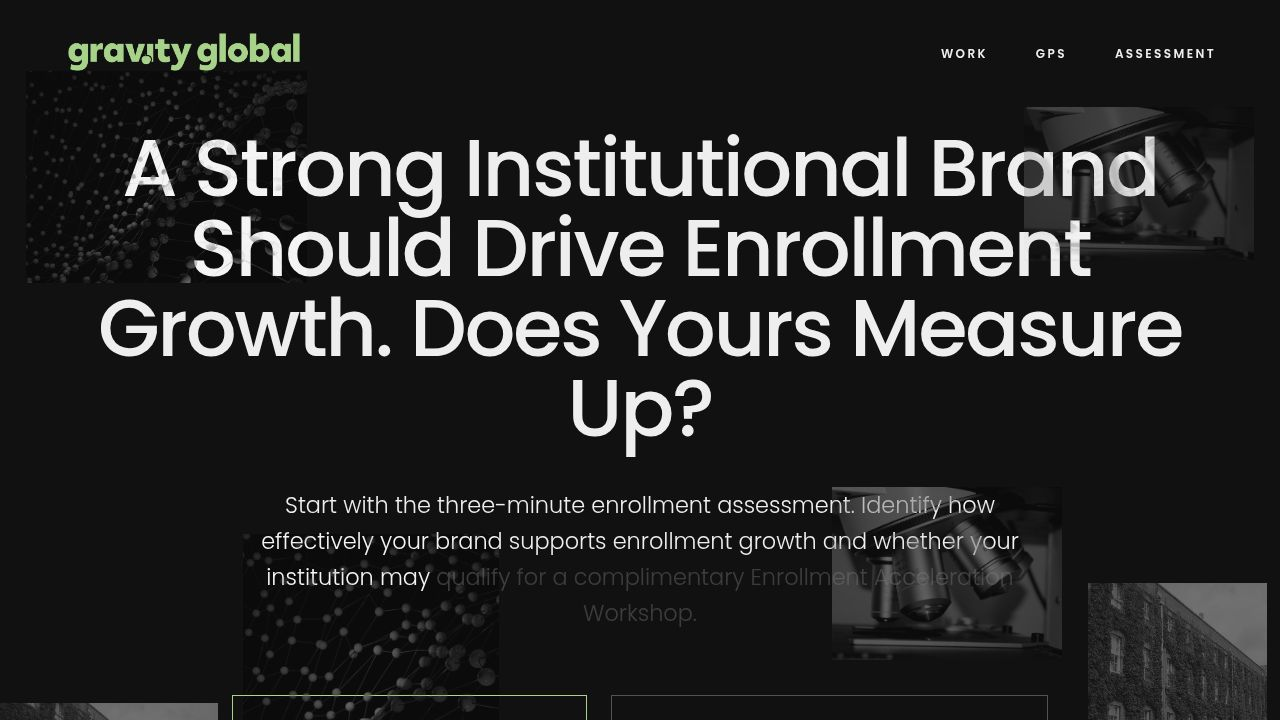
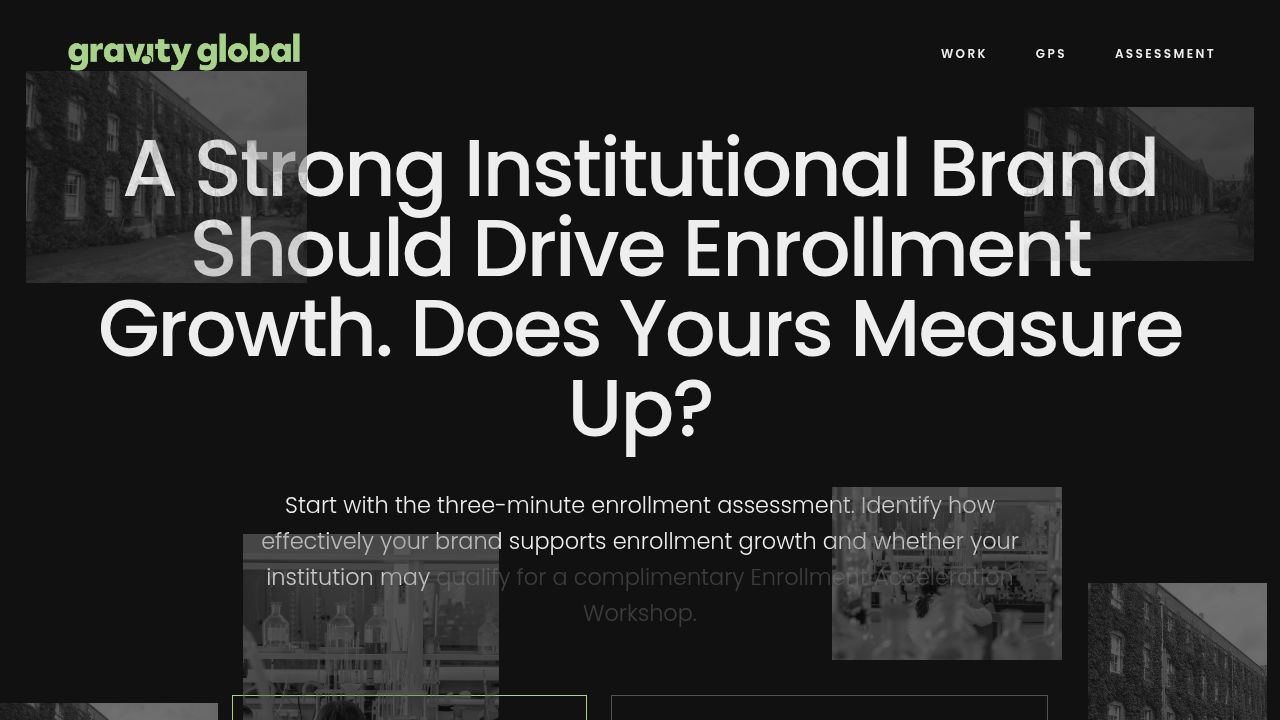
Update website to display correct forms and content
Adjusted image assets and text content for various sections, including the HubSpot form trigger, case study details, and logo order.

Replit-Commit-Author: Agent
Replit-Commit-Session-Id: d6e0730f-b30e-491c-b3e2-d3f84d242913
Replit-Commit-Checkpoint-Type: full_checkpoint
Replit-Commit-Event-Id: bde6509c-2a98-43e3-9b98-296a34e604e8
Replit-Commit-Screenshot-Url: https://storage.googleapis.com/screenshot-production-us-central1/9cd8e13a-6fcb-4403-b32e-22f1f94d53f9/d6e0730f-b30e-491c-b3e2-d3f84d242913/KmuIck4
Replit-Helium-Checkpoint-Created: true

diff --git a/client/src/pages/Home.tsx b/client/src/pages/Home.tsx
@@ -94,7 +94,7 @@ export default function Home() {
              className="absolute top-[8%] left-[2%] w-[22vw] max-w-[320px] aspect-[4/3] opacity-[0.35] grayscale transition-transform duration-75 ease-out"
              style={{ transform: `translateY(${scrollY * 0.1}px)` }}
            >
-              <img src="/assets/hero-bg.jpg" className="w-full h-full object-cover" alt=""/>
+              <img src="/assets/campus-students.jpg" className="w-full h-full object-cover" alt=""/>
            </div>
            
            {/* Top Right */}
@@ -102,7 +102,7 @@ export default function Home() {
              className="absolute top-[12%] right-[2%] w-[18vw] max-w-[260px] aspect-[3/2] opacity-[0.25] grayscale transition-transform duration-75 ease-out"
              style={{ transform: `translateY(${scrollY * 0.18}px)` }}
            >
-              <img src="/assets/ucla.jpg" className="w-full h-full object-cover" alt=""/>
+              <img src="/assets/montgomery-college.jpg" className="w-full h-full object-cover" alt=""/>
            </div>
            
            {/* Bottom Left Group */}
@@ -114,7 +114,7 @@ export default function Home() {
                  <img src="/assets/montgomery-college.jpg" className="w-full h-full object-cover" alt=""/>
               </div>
               <div className="w-[20vw] max-w-[280px] aspect-[3/4] opacity-[0.35] grayscale">
-                 <img src="/assets/hero-bg.jpg" className="w-full h-full object-cover" alt=""/>
+                 <img src="/assets/california-university.jpg" className="w-full h-full object-cover" alt=""/>
               </div>
            </div>
            
@@ -124,10 +124,10 @@ export default function Home() {
              style={{ transform: `translateY(-${scrollY * 0.15}px)` }}
            >
               <div className="w-[18vw] max-w-[260px] aspect-[4/3] opacity-[0.35] grayscale">
-                 <img src="/assets/ucla.jpg" className="w-full h-full object-cover" alt=""/>
+                 <img src="/assets/california-university.jpg" className="w-full h-full object-cover" alt=""/>
               </div>
               <div className="w-[14vw] max-w-[190px] aspect-[3/4] mt-24 opacity-[0.45] grayscale">
-                 <img src="/assets/montgomery-college.jpg" className="w-full h-full object-cover" alt=""/>
+                 <img src="/assets/campus-students.jpg" className="w-full h-full object-cover" alt=""/>
               </div>
            </div>
         </div>
@@ -142,14 +142,18 @@ export default function Home() {
           </p>
           <div className="flex flex-col sm:flex-row gap-6 items-center justify-center w-full">
             <button 
-              onClick={() => window.open('https://form.typeform.com/to/f73a9593', '_blank')}
+              onClick={() => {
+                document.getElementById('assessment')?.scrollIntoView({ behavior: 'smooth' });
+              }}
               className="group flex items-center justify-between gap-12 border border-[#B7E39B] bg-transparent hover:bg-[#B7E39B] text-[#B7E39B] hover:text-[#111] transition-all duration-300 px-10 py-5 text-lg font-medium w-full sm:w-auto min-w-[300px]"
             >
               <span className="tracking-wide">Take the Assessment</span>
               <DiagonalArrow className="transform group-hover:translate-x-1 group-hover:-translate-y-1 transition-transform duration-300" />
             </button>
             <button 
-              onClick={() => setIsModalOpen(true)}
+              onClick={() => {
+                document.getElementById('audit')?.scrollIntoView({ behavior: 'smooth' });
+              }}
               className="group flex items-center justify-between gap-12 border border-white/30 bg-transparent hover:border-white hover:bg-white text-white hover:text-[#111] transition-all duration-300 px-10 py-5 text-lg font-medium w-full sm:w-auto min-w-[300px]"
             >
               <span className="tracking-wide">Request Enrollment Workshop</span>
@@ -164,12 +168,11 @@ export default function Home() {
         <div className="max-w-[1400px] mx-auto px-6 lg:px-16 overflow-hidden">
           <p className="text-center text-white/40 text-[11px] font-semibold tracking-[0.25em] uppercase mb-10">Trusted by Leading Institutions</p>
           <div className="flex flex-wrap justify-center items-center gap-10 md:gap-16 lg:gap-20 opacity-80">
-            <img src="/assets/northwestern-logo-new.png" alt="Northwestern University" className="h-[2.5rem] md:h-[3.5rem] w-auto brightness-0 invert opacity-50 hover:opacity-100 transition-all duration-300 object-contain" />
-            <img src="/assets/ucla-logo.png" alt="UCLA" className="h-[2rem] md:h-[2.5rem] w-auto brightness-0 invert opacity-50 hover:opacity-100 transition-all duration-300 object-contain" />
-            <img src="/assets/washington-logo.png" alt="University of Washington" className="h-[6rem] md:h-[8rem] w-auto brightness-0 invert opacity-50 hover:opacity-100 transition-all duration-300 object-contain" />
             <img src="/assets/houston-logo.png" alt="University of Houston" className="h-[5rem] md:h-[6.5rem] w-auto brightness-0 invert opacity-50 hover:opacity-100 transition-all duration-300 object-contain" />
-            <img src="/assets/montgomery-logo.png" alt="Montgomery College" className="h-[2rem] md:h-[2.5rem] w-auto brightness-0 invert opacity-50 hover:opacity-100 transition-all duration-300 object-contain" />
             <img src="/assets/incommon-logo.png" alt="InCommon" className="h-[2.5rem] md:h-[3rem] w-auto brightness-0 invert opacity-50 hover:opacity-100 transition-all duration-300 object-contain" />
+            <img src="/assets/montgomery-logo.png" alt="Montgomery College" className="h-[2rem] md:h-[2.5rem] w-auto brightness-0 invert opacity-50 hover:opacity-100 transition-all duration-300 object-contain" />
+            <img src="/assets/northwestern-logo-new.png" alt="Northwestern University" className="h-[2.5rem] md:h-[3.5rem] w-auto brightness-0 invert opacity-50 hover:opacity-100 transition-all duration-300 object-contain" />
+            <img src="/assets/washington-logo.png" alt="University of Washington" className="h-[6rem] md:h-[8rem] w-auto brightness-0 invert opacity-50 hover:opacity-100 transition-all duration-300 object-contain" />
           </div>
         </div>
       </section>
@@ -185,7 +188,7 @@ export default function Home() {
                <ScrollRevealText text="From first awareness to active advocacy, leading institutions are designing experiences that turn students into ambassadors." />
              </h2>
              <p className="text-2xl lg:text-[1.75rem] text-white leading-[1.6] font-light max-w-[860px]">
-               <ScrollRevealText text="See how institutions like Montgomery College and UCLA align brand strategy with the student journey to increase engagement, enrollment, and long-term student advocacy." />
+               <ScrollRevealText text="See how institutions like Montgomery College and California University align brand strategy with the student journey to increase engagement, enrollment, and long-term student advocacy." />
              </p>
           </div>
         </div>
@@ -256,32 +259,32 @@ export default function Home() {
             </div>
          </div>
 
-         {/* Slide 2: UCLA */}
+         {/* Slide 2: California University */}
          <div className="sticky top-0 min-h-screen w-full flex items-center px-6 lg:px-16 bg-[#111111] pt-32 pb-32 border-t border-white/10 shadow-[0_-30px_60px_rgba(0,0,0,0.8)]">
             <div className="max-w-[1500px] mx-auto w-full grid lg:grid-cols-[1fr_1.4fr] gap-16 lg:gap-32 items-center">
                
                <div className="flex flex-col gap-10">
                   <div>
-                    <p className="text-[#B7E39B] text-[12px] font-semibold tracking-[0.25em] uppercase mb-8">UCLA</p>
+                    <p className="text-[#B7E39B] text-[12px] font-semibold tracking-[0.25em] uppercase mb-8">California University</p>
                     <h2 className="text-[2.5rem] md:text-[4rem] lg:text-[5rem] leading-[1] font-medium text-white tracking-[-0.02em]">
-                      <ScrollRevealText text="Research Powers Miracles at UCLA" startOffset={0.9} endOffset={0.5} />
+                      <ScrollRevealText text="Research Powers Miracles at California University" startOffset={0.9} endOffset={0.5} />
                     </h2>
                   </div>
                   <div className="space-y-6 text-white text-xl lg:text-[1.35rem] font-light leading-[1.6]">
                     <p>
                       <strong className="text-white font-medium">The Challenge:</strong> <br/>
-                      <ScrollRevealText text="UCLA wanted a story that wouldn't feel like another 'university video.' It needed to feel warm and personal, not institutional, while speaking to a wide audience: donors, alumni, students, faculty, families, and leaders across Los Angeles and beyond. At the same time, UCLA was welcoming a new Chancellor and bringing 'UCLA Connects' to life. So, the work needed to reflect connection in a way that invited people into the story." startOffset={0.9} endOffset={0.6} />
+                      <ScrollRevealText text="California University wanted a story that wouldn't feel like another 'university video.' It needed to feel warm and personal, not institutional, while speaking to a wide audience: donors, alumni, students, faculty, families, and leaders across the region and beyond. At the same time, the university was welcoming a new Chancellor and bringing a new connection initiative to life. So, the work needed to reflect connection in a way that invited people into the story." startOffset={0.9} endOffset={0.6} />
                     </p>
                     <p>
                       <strong className="text-white font-medium">Our Approach:</strong> <br/>
-                      <ScrollRevealText text="Instead of big, general promises, UCLA had an opportunity to tell a true story only they could tell: research that directly changes a person's life, plus the community that makes those breakthroughs possible. By focusing on one real medical innovation and the people connected to it, the piece could:" startOffset={0.9} endOffset={0.6} />
+                      <ScrollRevealText text="Instead of big, general promises, California University had an opportunity to tell a true story only they could tell: research that directly changes a person's life, plus the community that makes those breakthroughs possible. By focusing on one real medical innovation and the people connected to it, the piece could:" startOffset={0.9} endOffset={0.6} />
                     </p>
                   </div>
                   <div className="pt-12 border-t border-white/10 mt-6">
                      <ul className="space-y-6 text-xl lg:text-[1.35rem] font-light text-white">
                        <li className="flex gap-6 items-start">
                          <span className="text-[#B7E39B] font-medium">/</span>
-                         <ScrollRevealText text="Show UCLA's impact beyond campus" startOffset={0.9} endOffset={0.7} />
+                         <ScrollRevealText text="Show the university's impact beyond campus" startOffset={0.9} endOffset={0.7} />
                        </li>
                        <li className="flex gap-6 items-start">
                          <span className="text-[#B7E39B] font-medium">/</span>
@@ -289,7 +292,7 @@ export default function Home() {
                        </li>
                        <li className="flex gap-6 items-start">
                          <span className="text-[#B7E39B] font-medium">/</span>
-                         <ScrollRevealText text="Reinforce lifelong connection (Bruins supporting Bruins, across generations)" startOffset={0.9} endOffset={0.7} />
+                         <ScrollRevealText text="Reinforce lifelong connection (Alumni supporting alumni, across generations)" startOffset={0.9} endOffset={0.7} />
                        </li>
                        <li className="flex gap-6 items-start">
                          <span className="text-[#B7E39B] font-medium">/</span>
@@ -303,7 +306,7 @@ export default function Home() {
                </div>
 
                <div className="w-full aspect-[4/3] lg:aspect-[3/4] max-h-[85vh] relative overflow-hidden bg-[#1a1a1a]">
-                  <img src="/assets/ucla.jpg" className="w-full h-full object-cover opacity-60 hover:opacity-100 transition-all duration-1000 hover:scale-[1.03] grayscale hover:grayscale-0" alt="UCLA" />
+                  <img src="/assets/california-university.jpg" className="w-full h-full object-cover opacity-60 hover:opacity-100 transition-all duration-1000 hover:scale-[1.03] grayscale hover:grayscale-0" alt="California University" />
                </div>
 
             </div>
@@ -321,14 +324,14 @@ export default function Home() {
             <p className="text-xl lg:text-[1.5rem] text-white mb-14 font-light leading-[1.6] max-w-[600px]">
               <ScrollRevealText text="A short executive assessment designed to reveal how well your brand strategy supports enrollment performance." />
             </p>
-            <button onClick={() => window.open('https://form.typeform.com/to/f73a9593', '_blank')} className="group inline-flex items-center justify-between gap-12 border border-[#B7E39B] bg-[#B7E39B] hover:bg-transparent text-[#111] hover:text-[#B7E39B] transition-all duration-300 px-10 py-5 font-medium text-lg w-full sm:w-auto min-w-[320px]">
+            <button onClick={() => setIsModalOpen(true)} className="group inline-flex items-center justify-between gap-12 border border-[#B7E39B] bg-[#B7E39B] hover:bg-transparent text-[#111] hover:text-[#B7E39B] transition-all duration-300 px-10 py-5 font-medium text-lg w-full sm:w-auto min-w-[320px]">
               <span className="tracking-wide">Start Assessment</span>
               <DiagonalArrow className="transform group-hover:translate-x-1 group-hover:-translate-y-1 transition-transform duration-300" />
             </button>
           </div>
           
           <div className="order-1 lg:order-2 flex justify-center lg:justify-end">
-            <div onClick={() => window.open('https://form.typeform.com/to/f73a9593', '_blank')} className="w-[85vw] max-w-[550px] aspect-square border border-white/10 rounded-full flex flex-col items-center justify-center p-16 lg:p-24 text-center relative group overflow-hidden bg-transparent transition-all duration-700 hover:border-[#B7E39B]/40 hover:bg-[#B7E39B]/5 cursor-pointer">
+            <div onClick={() => setIsModalOpen(true)} className="w-[85vw] max-w-[550px] aspect-square border border-white/10 rounded-full flex flex-col items-center justify-center p-16 lg:p-24 text-center relative group overflow-hidden bg-transparent transition-all duration-700 hover:border-[#B7E39B]/40 hover:bg-[#B7E39B]/5 cursor-pointer">
               <h3 className="text-2xl md:text-[2.25rem] font-medium mb-6 relative z-10 text-white group-hover:text-[#B7E39B] transition-colors duration-500 tracking-tight leading-[1.1]">
                  Is Your Brand Driving Measurable Enrollment Growth?
               </h3>
@@ -350,7 +353,7 @@ export default function Home() {
             One institution will receive a complimentary 1:1 Enrollment Acceleration Workshop — a private working session with Gravity experts focused on identifying enrollment friction and mapping growth opportunities.
           </p>
           <button 
-            onClick={() => setIsModalOpen(true)}
+            onClick={() => window.open('https://form.typeform.com/to/f73a9593', '_blank')}
             className="group inline-flex items-center justify-between gap-12 border border-[#111111] bg-transparent hover:bg-[#111111] text-[#111111] hover:text-[#B7E39B] transition-all duration-300 px-12 py-6 font-medium text-xl w-full sm:w-auto min-w-[340px]"
           >
             <span className="tracking-wide">Request Workshop</span>
@@ -377,7 +380,7 @@ export default function Home() {
               <iframe 
                 src="https://share.hsforms.com/29zqVk4T1Rc-xwdJjnC8csw3gji" 
                 className="w-full h-full border-none rounded-lg"
-                title="Request Enrollment Workshop Form"
+                title="Enrollment Assessment Form"
               />
             </div>
           </div>
